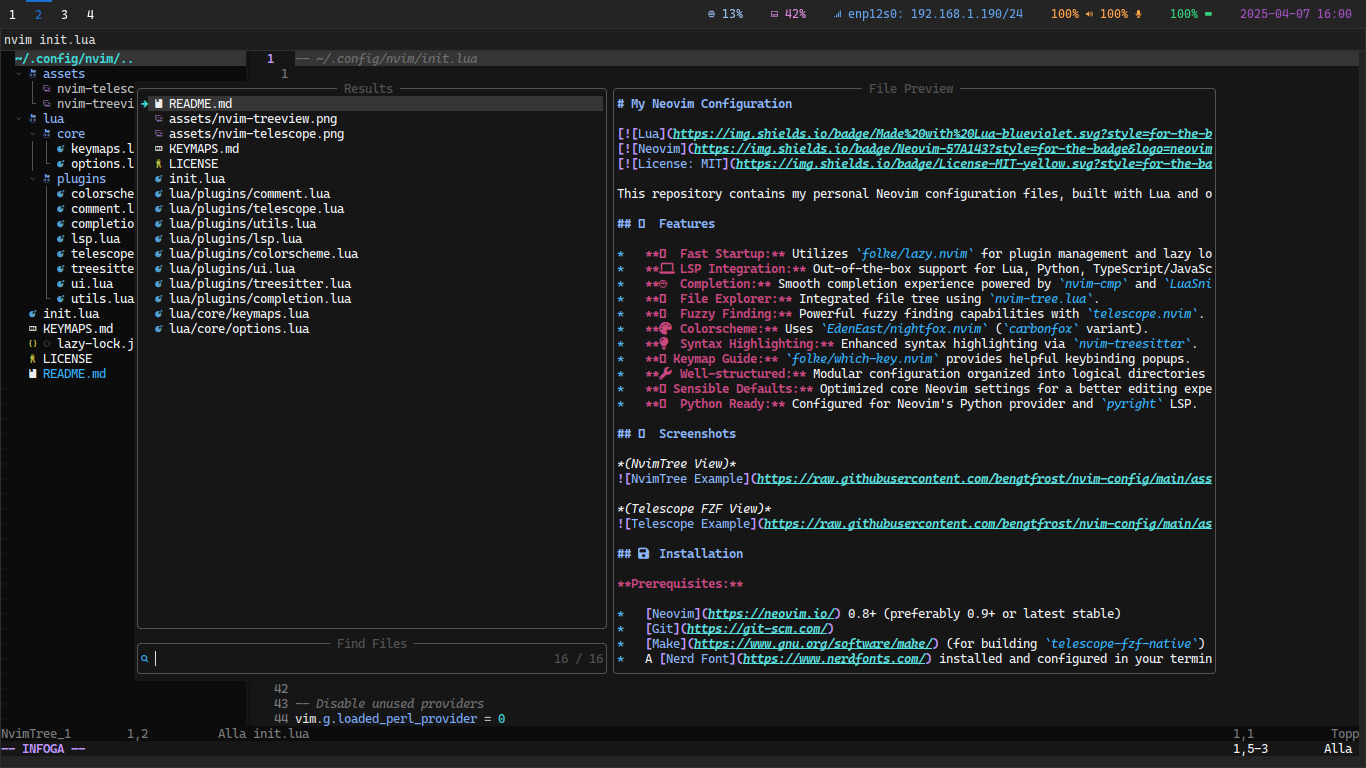
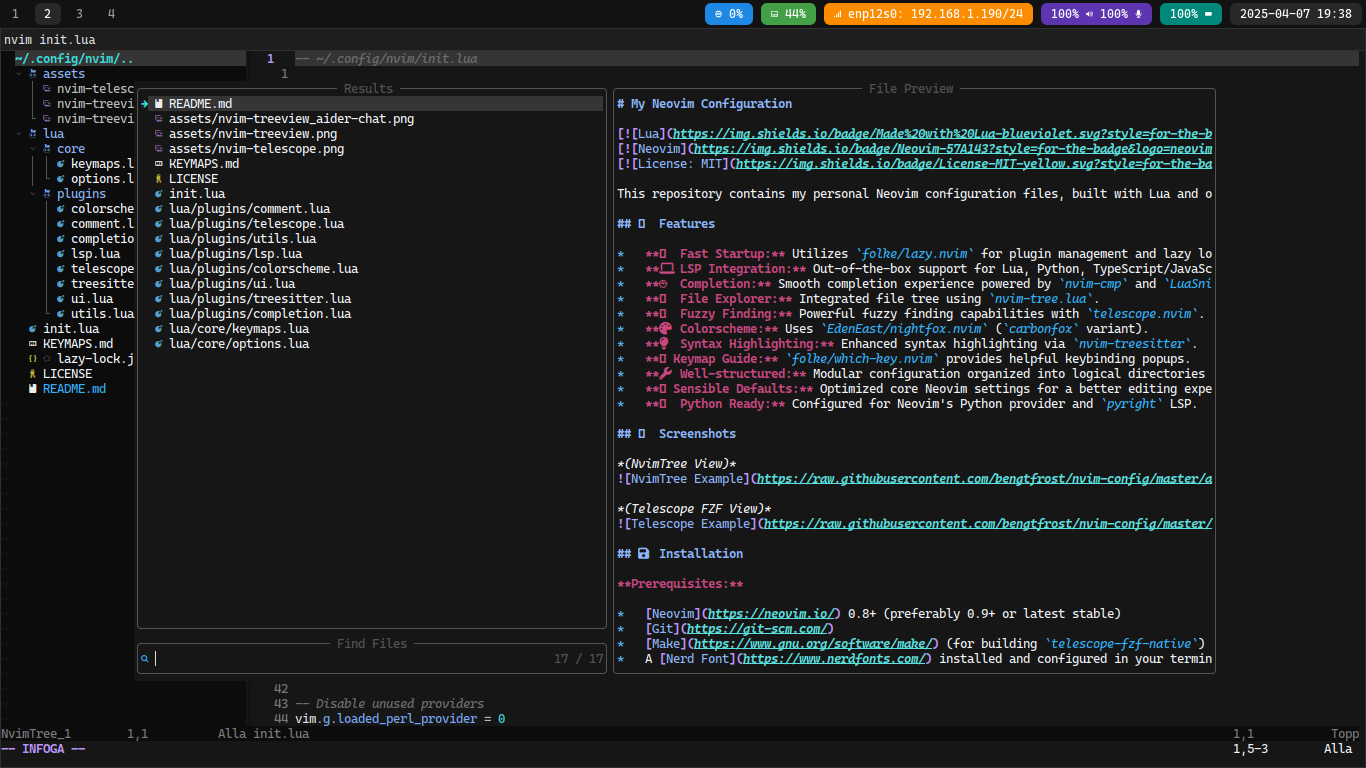
modified:   README.md modified:   assets/nvim-telescope.png modified:   assets/nvim-treeview.png

diff --git a/README.md b/README.md
@@ -25,6 +25,9 @@ This repository contains my personal Neovim configuration files, built with Lua 
 *(NvimTree View)*
 ![NvimTree Example](https://raw.githubusercontent.com/bengtfrost/nvim-config/master/assets/nvim-treeview.png)
 
+*(NvimTree View with Aider AI pair programming in your terminal)*
+![NvimTree Example with Aider](https://raw.githubusercontent.com/bengtfrost/nvim-config/master/assets/nvim-treeview_aider-chat.png)
+
 *(Telescope FZF View)*
 ![Telescope Example](https://raw.githubusercontent.com/bengtfrost/nvim-config/master/assets/nvim-telescope.png)
 
